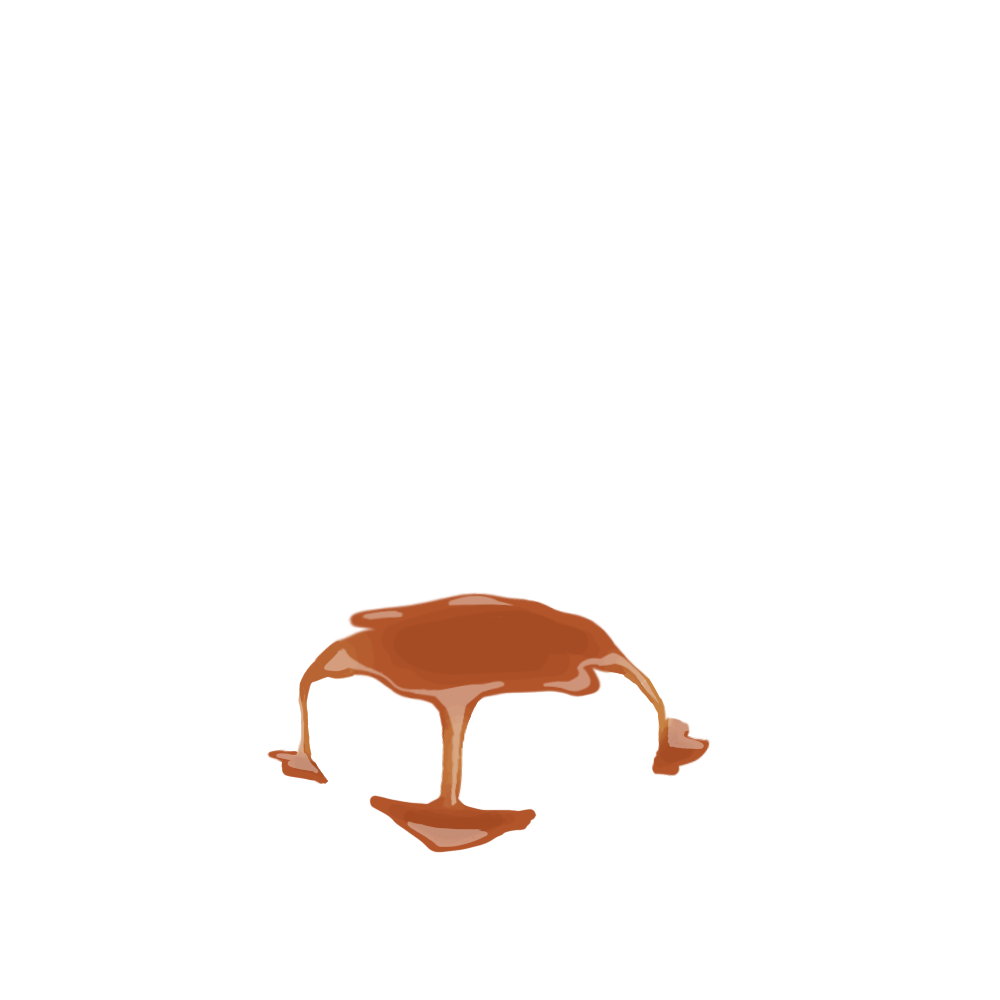
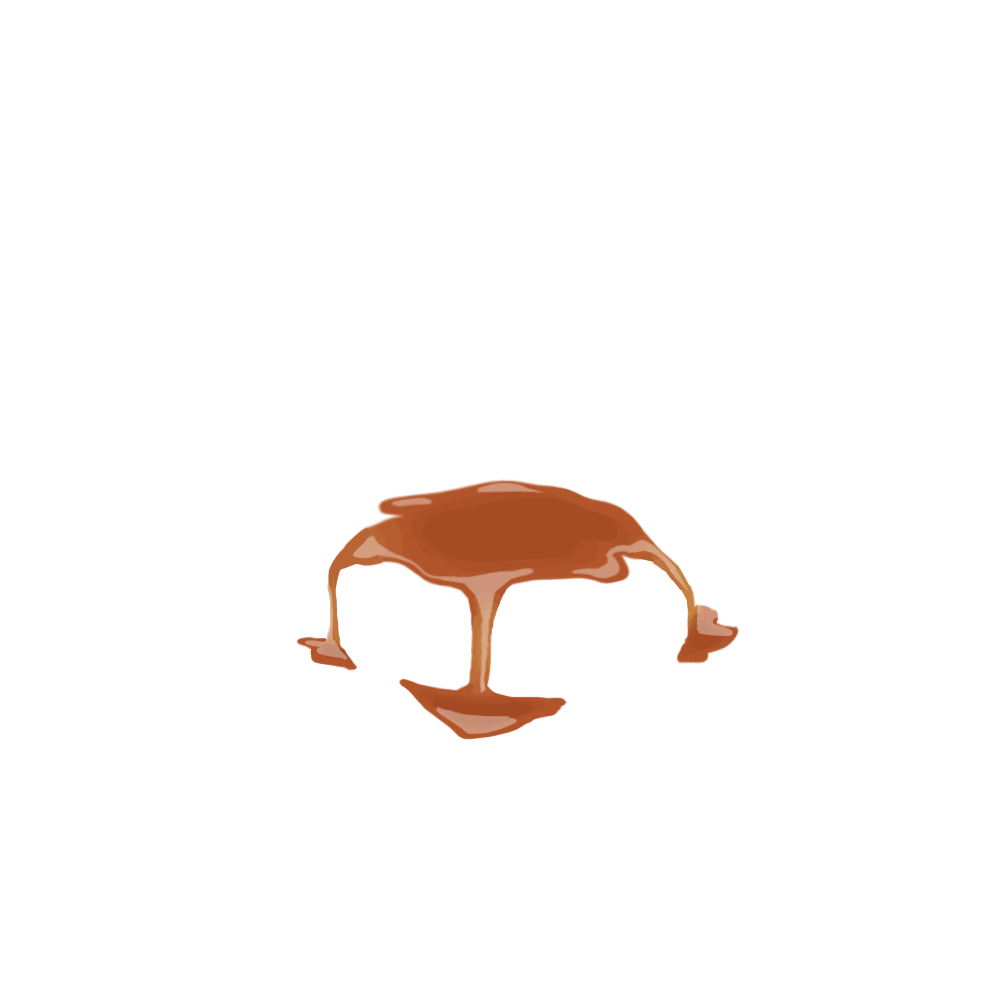
mostly functioning second customization screen

Changed region(s): [[0.279, 0.465, 0.713, 0.868], [0.279, 0.682, 0.341, 0.806], [0.682, 0.589, 0.744, 0.682]]

diff --git a/script.js b/script.js
@@ -3,17 +3,25 @@ let title = document.querySelector("#title")
 let right = document.querySelector("#right")
 let left = document.querySelector("#left")
 let textElement = document.getElementById("text")
+let topText = document.getElementById("topText")
+let pancake = document.createElement('img')
+let topping = document.createElement('img')
 let text = 'one';
-let pancakeCounter = 0;
+let text2 = 'How many pancakes?';
+let screen = 1;
+let pancakeCounter=0;
+let toppingCounter=0;
 function start() {
   document.getElementById("title").style.visibility = "hidden";
   document.getElementById("startButton").style.visibility = "hidden";
   document.getElementById("right").style.visibility = "visible";
   document.getElementById("left").style.visibility = "visible";
   document.getElementById("next").style.visibility = "visible";
+  document.getElementById("topText").style.visibility = "visible";
   textElement.style.visibility = "visible";
   textElement.innerText = text;
-  let pancake = document.createElement('img')
+  topText.style.visibility = "visible";
+  topText.innerText = text2;
   pancake.src = './assets/pancake.PNG';
   pancake.classList.add('pancake')
   pancake.style.width='700px';
@@ -36,26 +44,90 @@ if (pancakeCounter==2) {
    pancake.src = './assets/pancake3.PNG'
 }
 }
+function renderTopping() {
+  if (toppingCounter==0) {
+    text = 'none';
+    textElement.innerText = text;
+    document.getElementById("topping").style.visibility = "hidden";
+  }
+  if (toppingCounter == 1) {
+    document.getElementById("topping").style.visibility = "visible";
+    if (pancakeCounter==0) {
+    topping.src = './assets/syrup/syrup1.PNG'
+    }
+    if (pancakeCounter==1) {
+      topping.src = './assets/syrup/syrup2.PNG'
+    }
+    if (pancakeCounter==2) {
+      topping.src = './assets/syrup/syrup3.PNG'
+    }
+    text = 'maple syrup';
+    textElement.innerText = text;
+  }
+  if (toppingCounter==2) {
+    document.getElementById("topping").style.visibility = "visible";
+    text = 'nutella';
+    textElement.innerText = text;
+    topping.src = './assets/syrup/nutella.PNG'
+  }
+}
 startButton.addEventListener("click",function(){
 start()
 })
 left.addEventListener("click",function(){
-  if (pancakeCounter<1) {
-    pancakeCounter=2
+  if (screen==1){
+    if (pancakeCounter<1) {
+      pancakeCounter=2
+    }
+    else {
+     pancakeCounter --
+    }
+    renderPancake()
   }
-  else {
-    pancakeCounter --
+  else if (screen==2){
+    if (toppingCounter<1) {
+      toppingCounter=2
+    }
+    else {
+     toppingCounter --
+    }
+    renderTopping()
   }
-  renderPancake()
 })
-console.log(right)
 right.addEventListener("click",function () {
-  if (pancakeCounter>1) {
-    pancakeCounter=0
+  if (screen==1){
+   if (pancakeCounter>1) {
+     pancakeCounter=0
+   }
+   else {
+      pancakeCounter ++
+    }
+    renderPancake()
   }
-  else {
-    pancakeCounter ++
+  else if (screen==2){
+    console.log ('test')
+    if (toppingCounter>1) {
+      toppingCounter=0
+    }
+    else {
+     toppingCounter ++
+    }
+    renderTopping()
   }
-  renderPancake()
+})
+next.addEventListener("click", function() {
+  if (screen==1) {
+  text2 = "Choose a topping";
+  topText.innerText = text2;
+  text="none"
+  textElement.innerText = text;
+  topping.src = './assets/syrup/syrup1.PNG';
+  topping.setAttribute("id", "topping")
+  topping.classList.add('topping')
+  topping.style.width='700px';
+  document.body.appendChild(topping);
+  document.getElementById("topping").style.visibility = "hidden";
+}
+screen ++
 })
 //start()

diff --git a/style.css b/style.css
@@ -1,3 +1,4 @@
+@import url('https://fonts.googleapis.com/css2?family=Poppins:ital,wght@0,100;0,200;0,300;0,400;0,500;0,600;0,700;0,800;0,900;1,100;1,200;1,300;1,400;1,500;1,600;1,700;1,800;1,900&display=swap');
 body {
   background-color: rgb(143, 150, 175);
 }
@@ -39,10 +40,28 @@ body {
   position:relative;
   top:500px;
   visibility: hidden;
-  z-index: 1;
+  z-index: 10;
 }
 #everythingDiv {
   display: flex;
   flex-direction: column;
   align-items:center;
+}
+*{
+  font-family: "poppins";
+}
+#topText{
+  visibility: hidden;
+  position :absolute;
+  color: rgb(46, 55, 80);
+  top: 25px;
+}
+#next{
+  z-index: 1;
+}
+.topping {
+  inset: 0;
+  margin:auto;
+  position: absolute;
+  z-index:2;
 }

diff --git a/index.html b/index.html
@@ -8,6 +8,7 @@
  </head>
 <body>
 <div id="everythingDiv">
+ <h2 id="topText"> How many pancakes? </h2>
   <div id="mainDiv">
     <div id="titleDiv">
       <img id= "title" src= "./assets/title.PNG">
